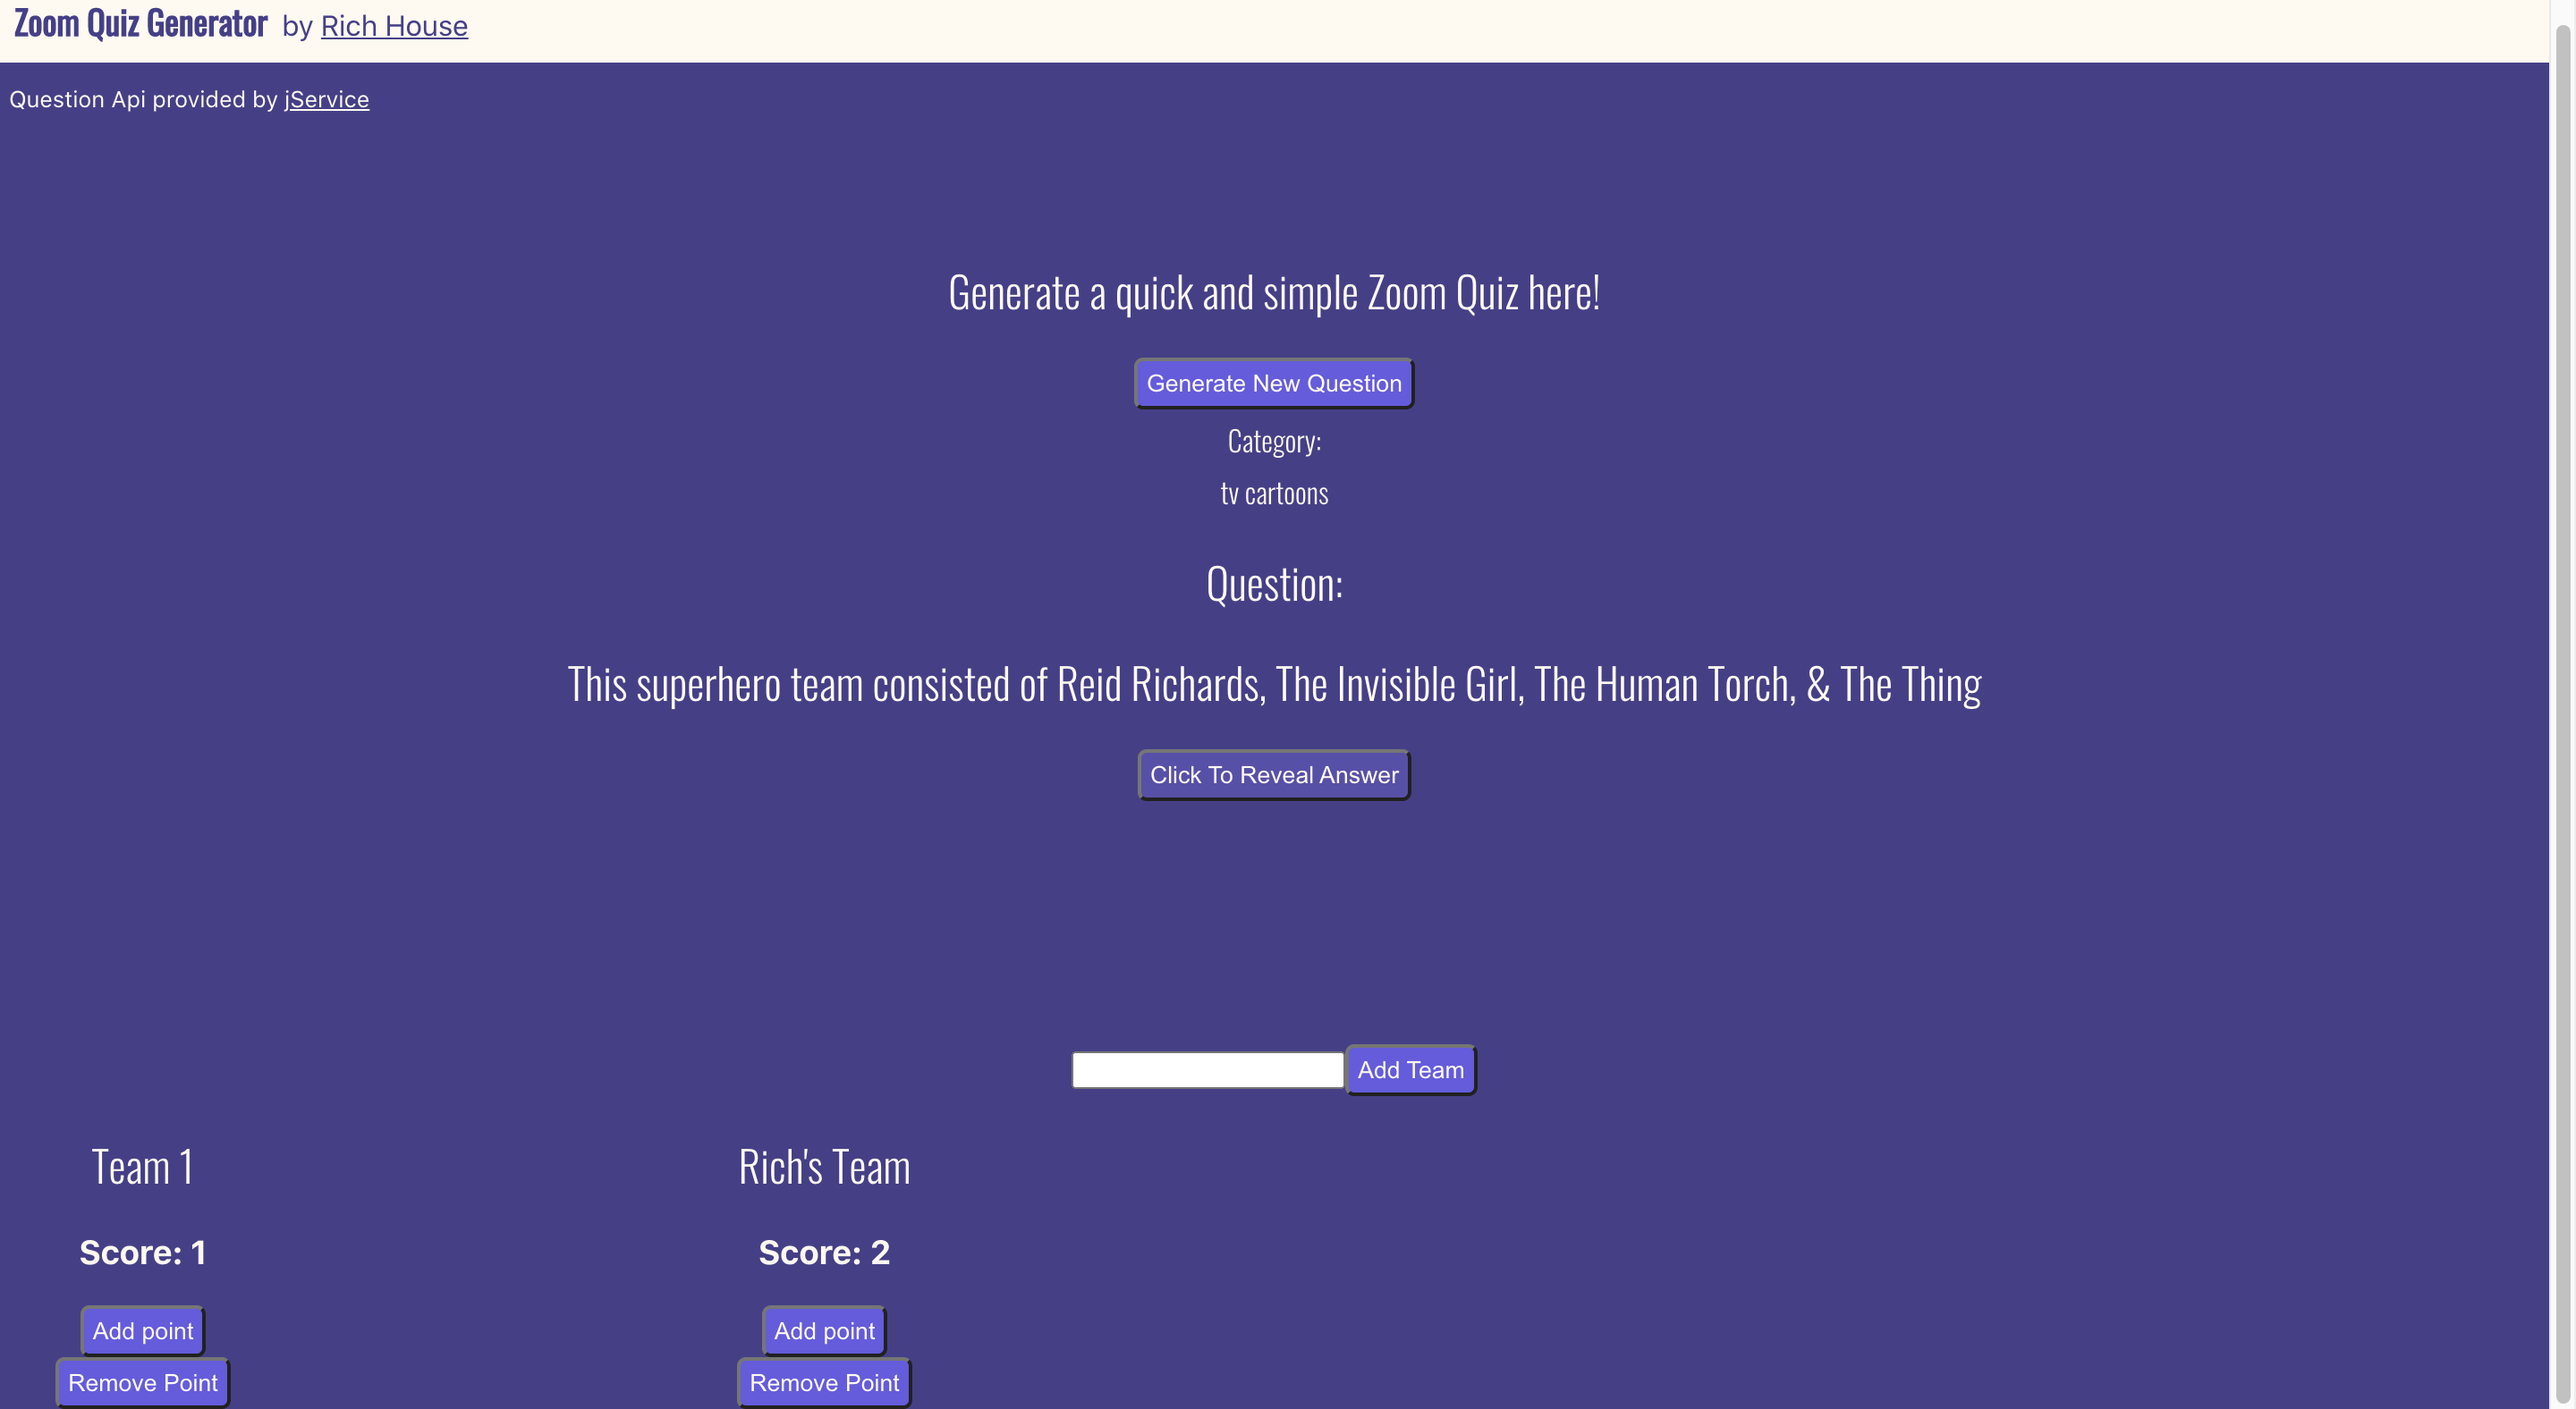
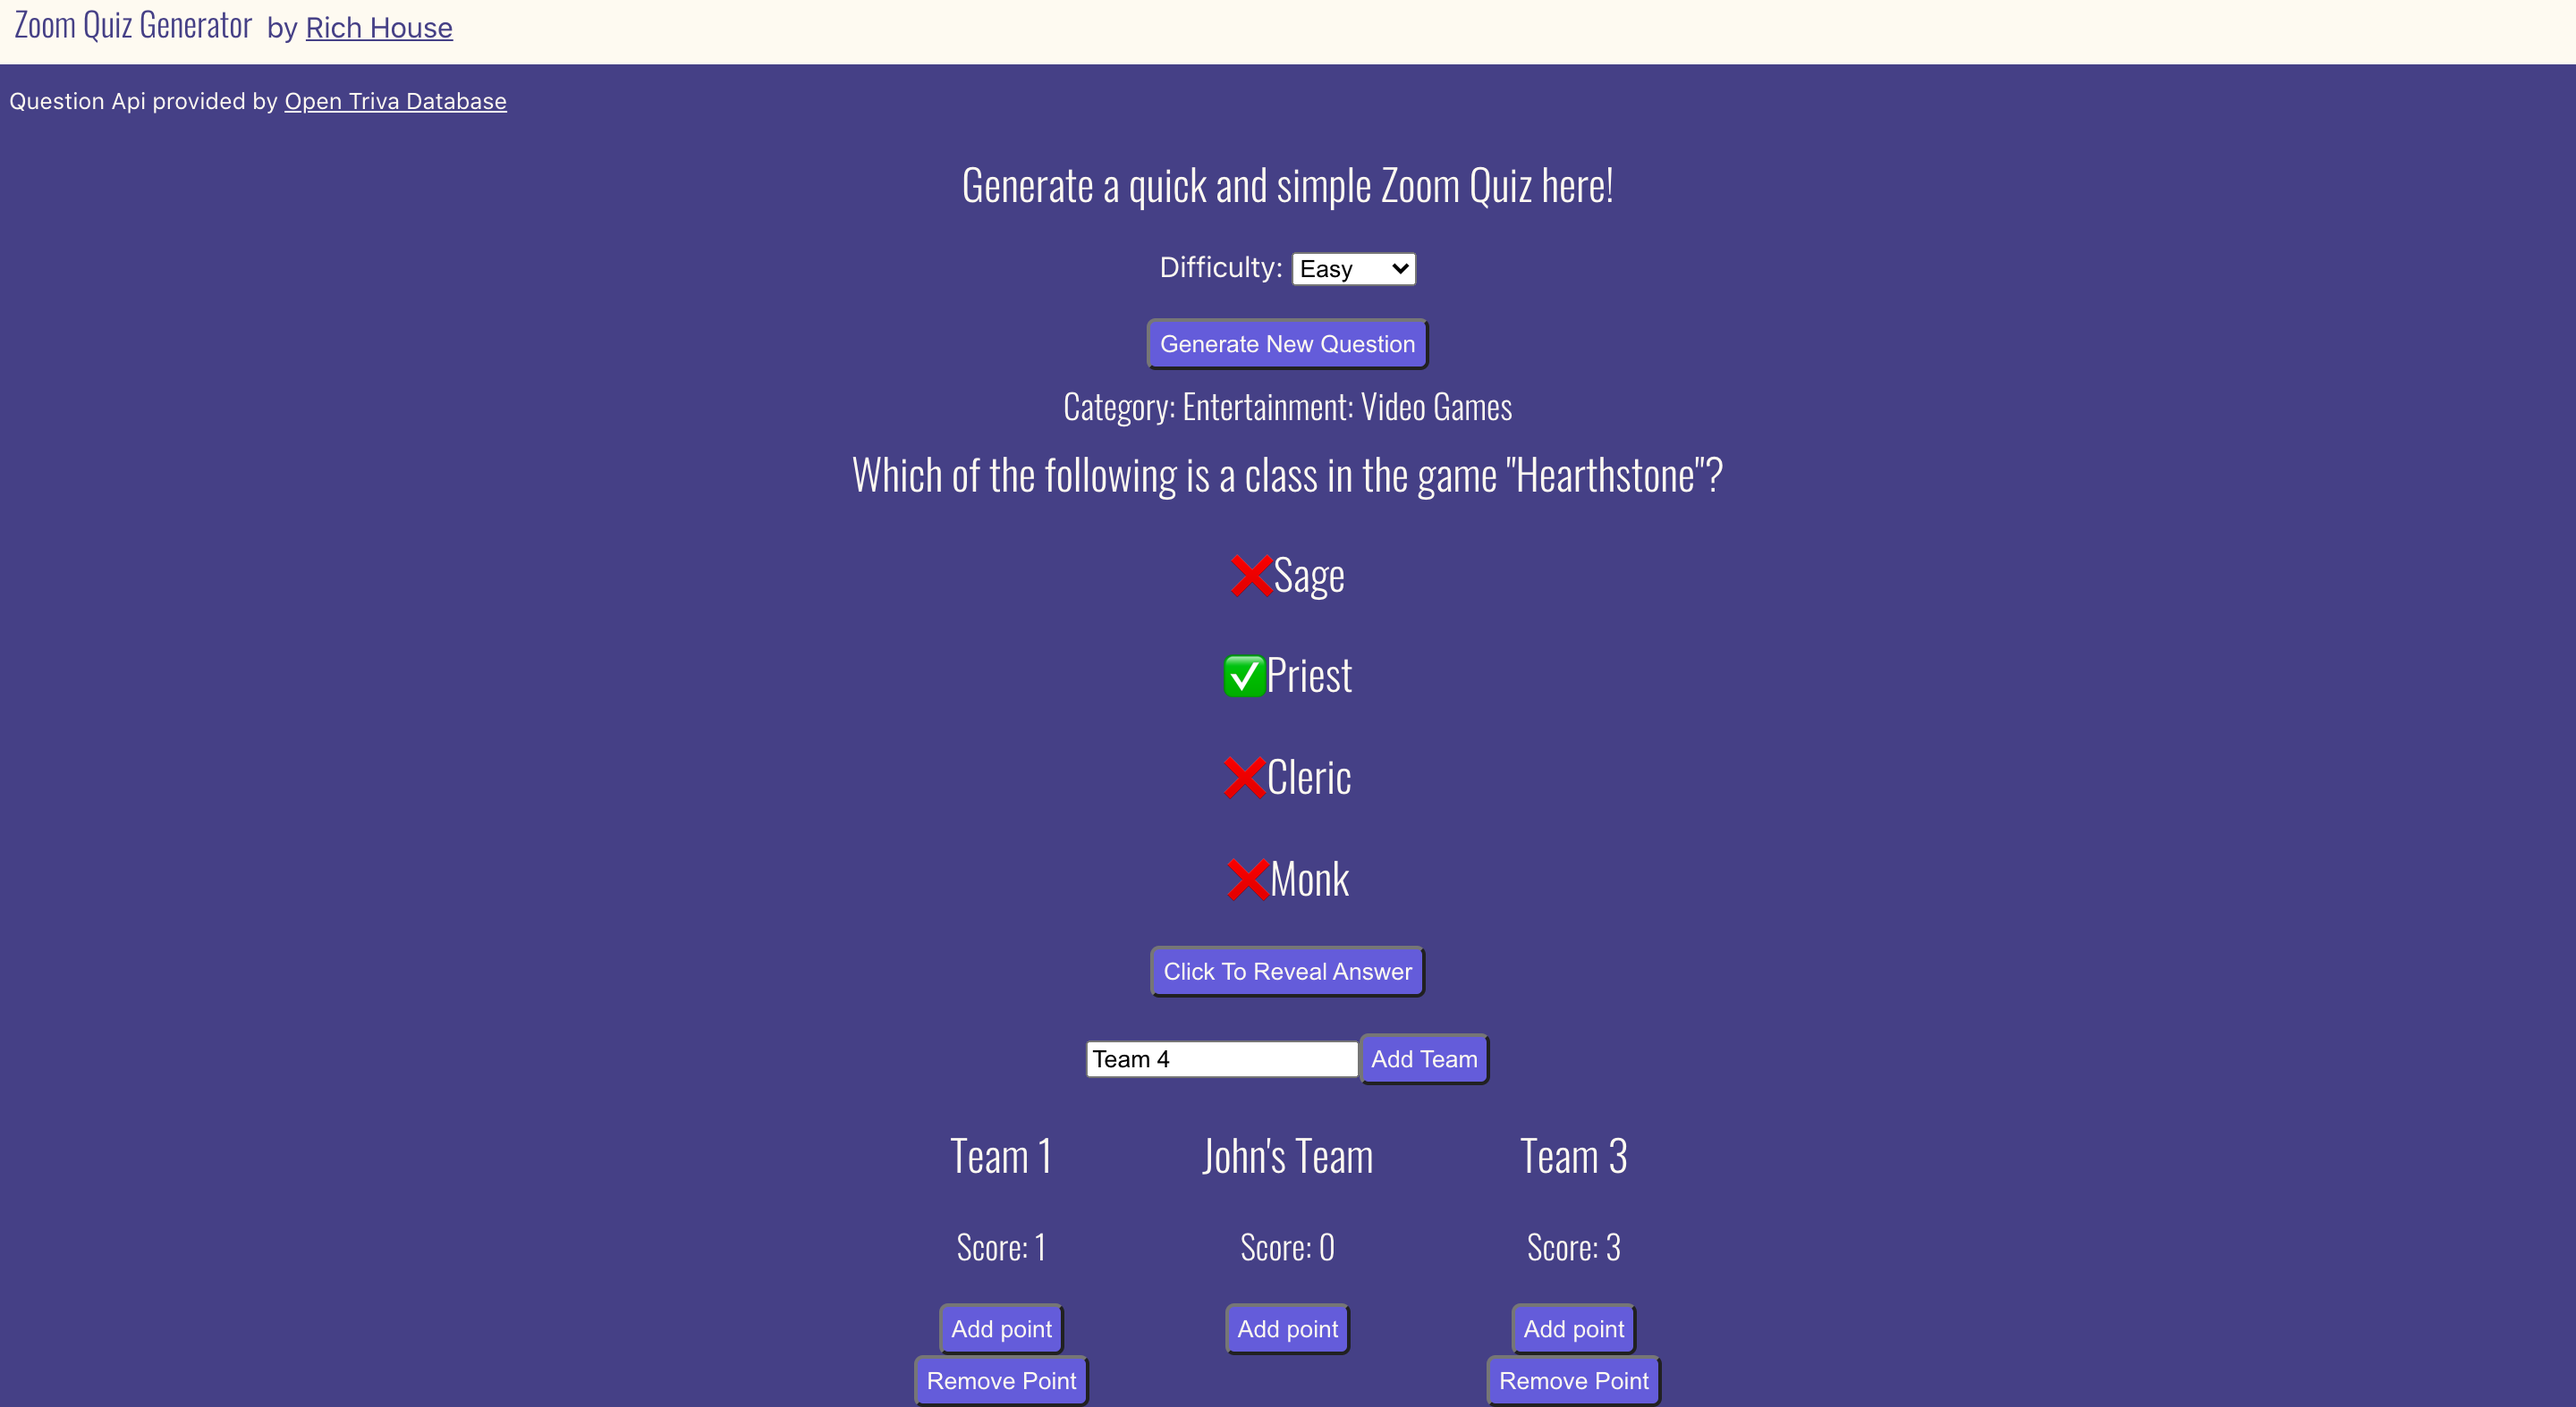
slight tweaks

diff --git a/main.html b/main.html
@@ -31,11 +31,12 @@
                     </li>
                     <li>
                         <h4><i class="fab fa-js-square"></i> JavaScript</h4>
-                        <p>I am about to begin the NorthCoders Web Development Pathway, and have spent the last year building a firm knowledge of JS fundamentals.</p>
+                        <p>I am currently completing the <a href="https://northcoders.com/" target="_blank">Northcoders</a> Web Development Pathway, and have spent the last year building a firm knowledge of JS fundamentals.</p>
                     </li>
                     <li>
                         <h4>MongoDB, Express, React, Node.js, SQL, Phaser.js, Vue.js and other JS libraries and frameworks</h4>
                         <h4><i class="fab fa-react"> <i class="fab fa-node-js"></i> <i class="fab fa-vuejs"></i></i></h4>
+                        <p>Including Postgres, SQLite3, Knex, jQuery and others.</p>
                     </li>
                     <li>
                         <h4>Working knowledge of Swift, Python, C and other programming languages</h4>
@@ -58,7 +59,7 @@
                         </h4>
                         <a href="http://salty-comb.surge.sh/" target='_blank'><img class='demopics'
                                 src='images/zoom-quiz.png' /></a>
-                        <p>A simple zoom quiz generator, built using React, Axios and implementing use of the <a href="http://jservice.io/" target="_blank">jService Api</a>.</p>
+                        <p>A simple zoom quiz generator, built using React, Axios and implementing use of the <a href="https://opentdb.com/" target="_blank">Open Trivia Database Api</a>.</p>
                     </li>
                     <li>
                         <h4><a href = "https://richhouse83.github.io/marioClone/" target = '_blank'>Mario Clone using procedural generation of levels.</a>
